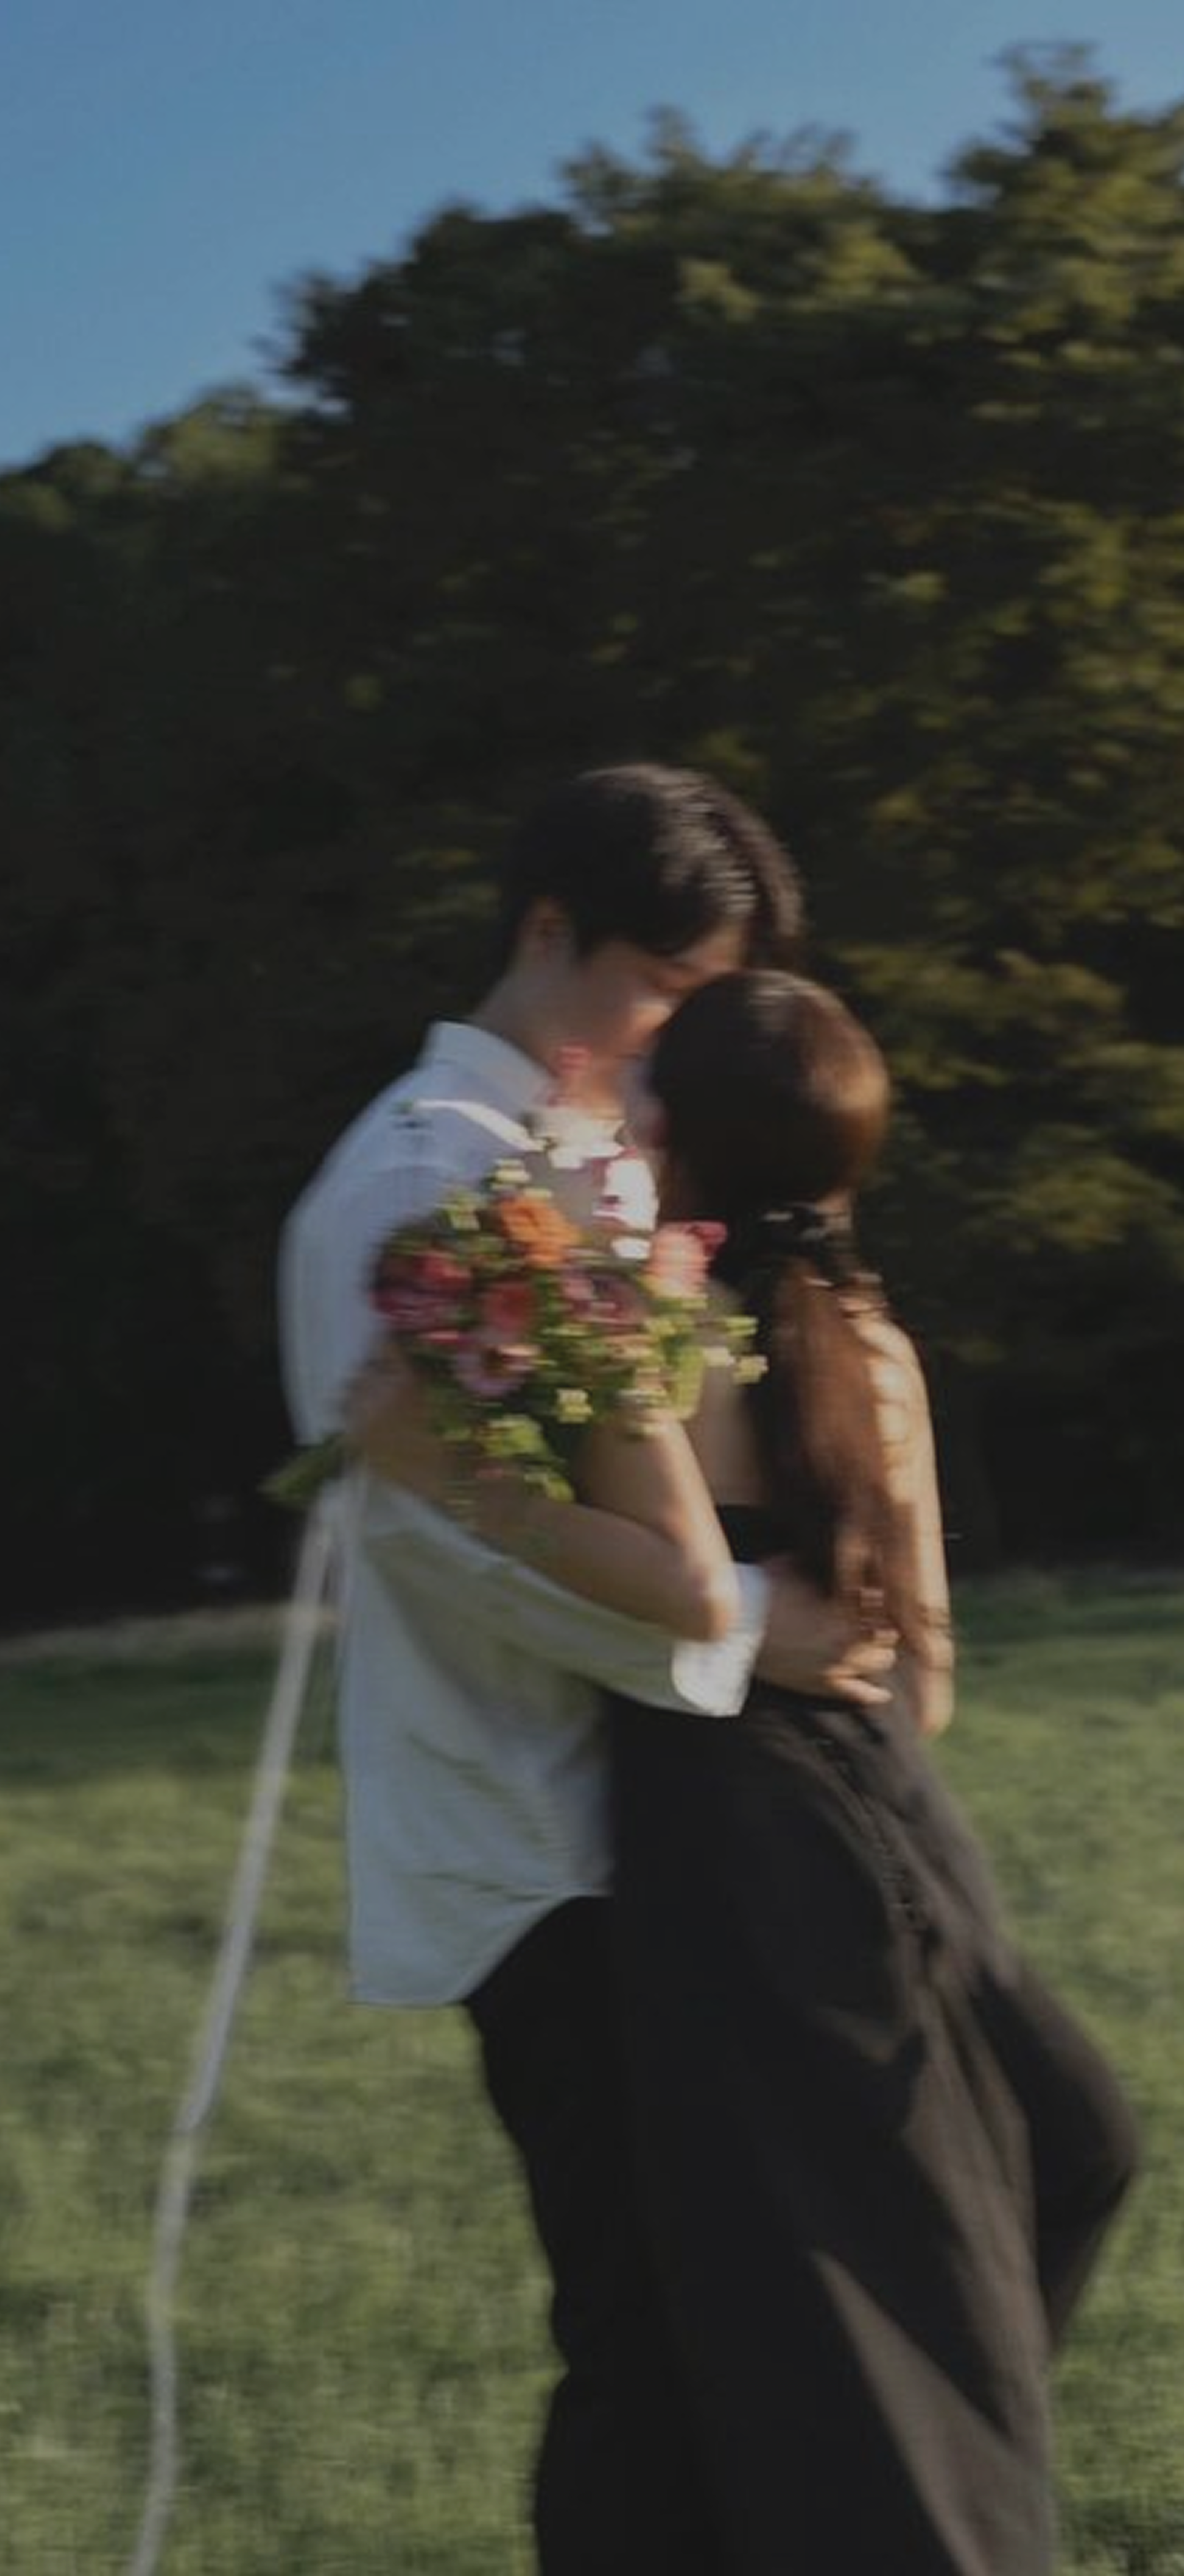
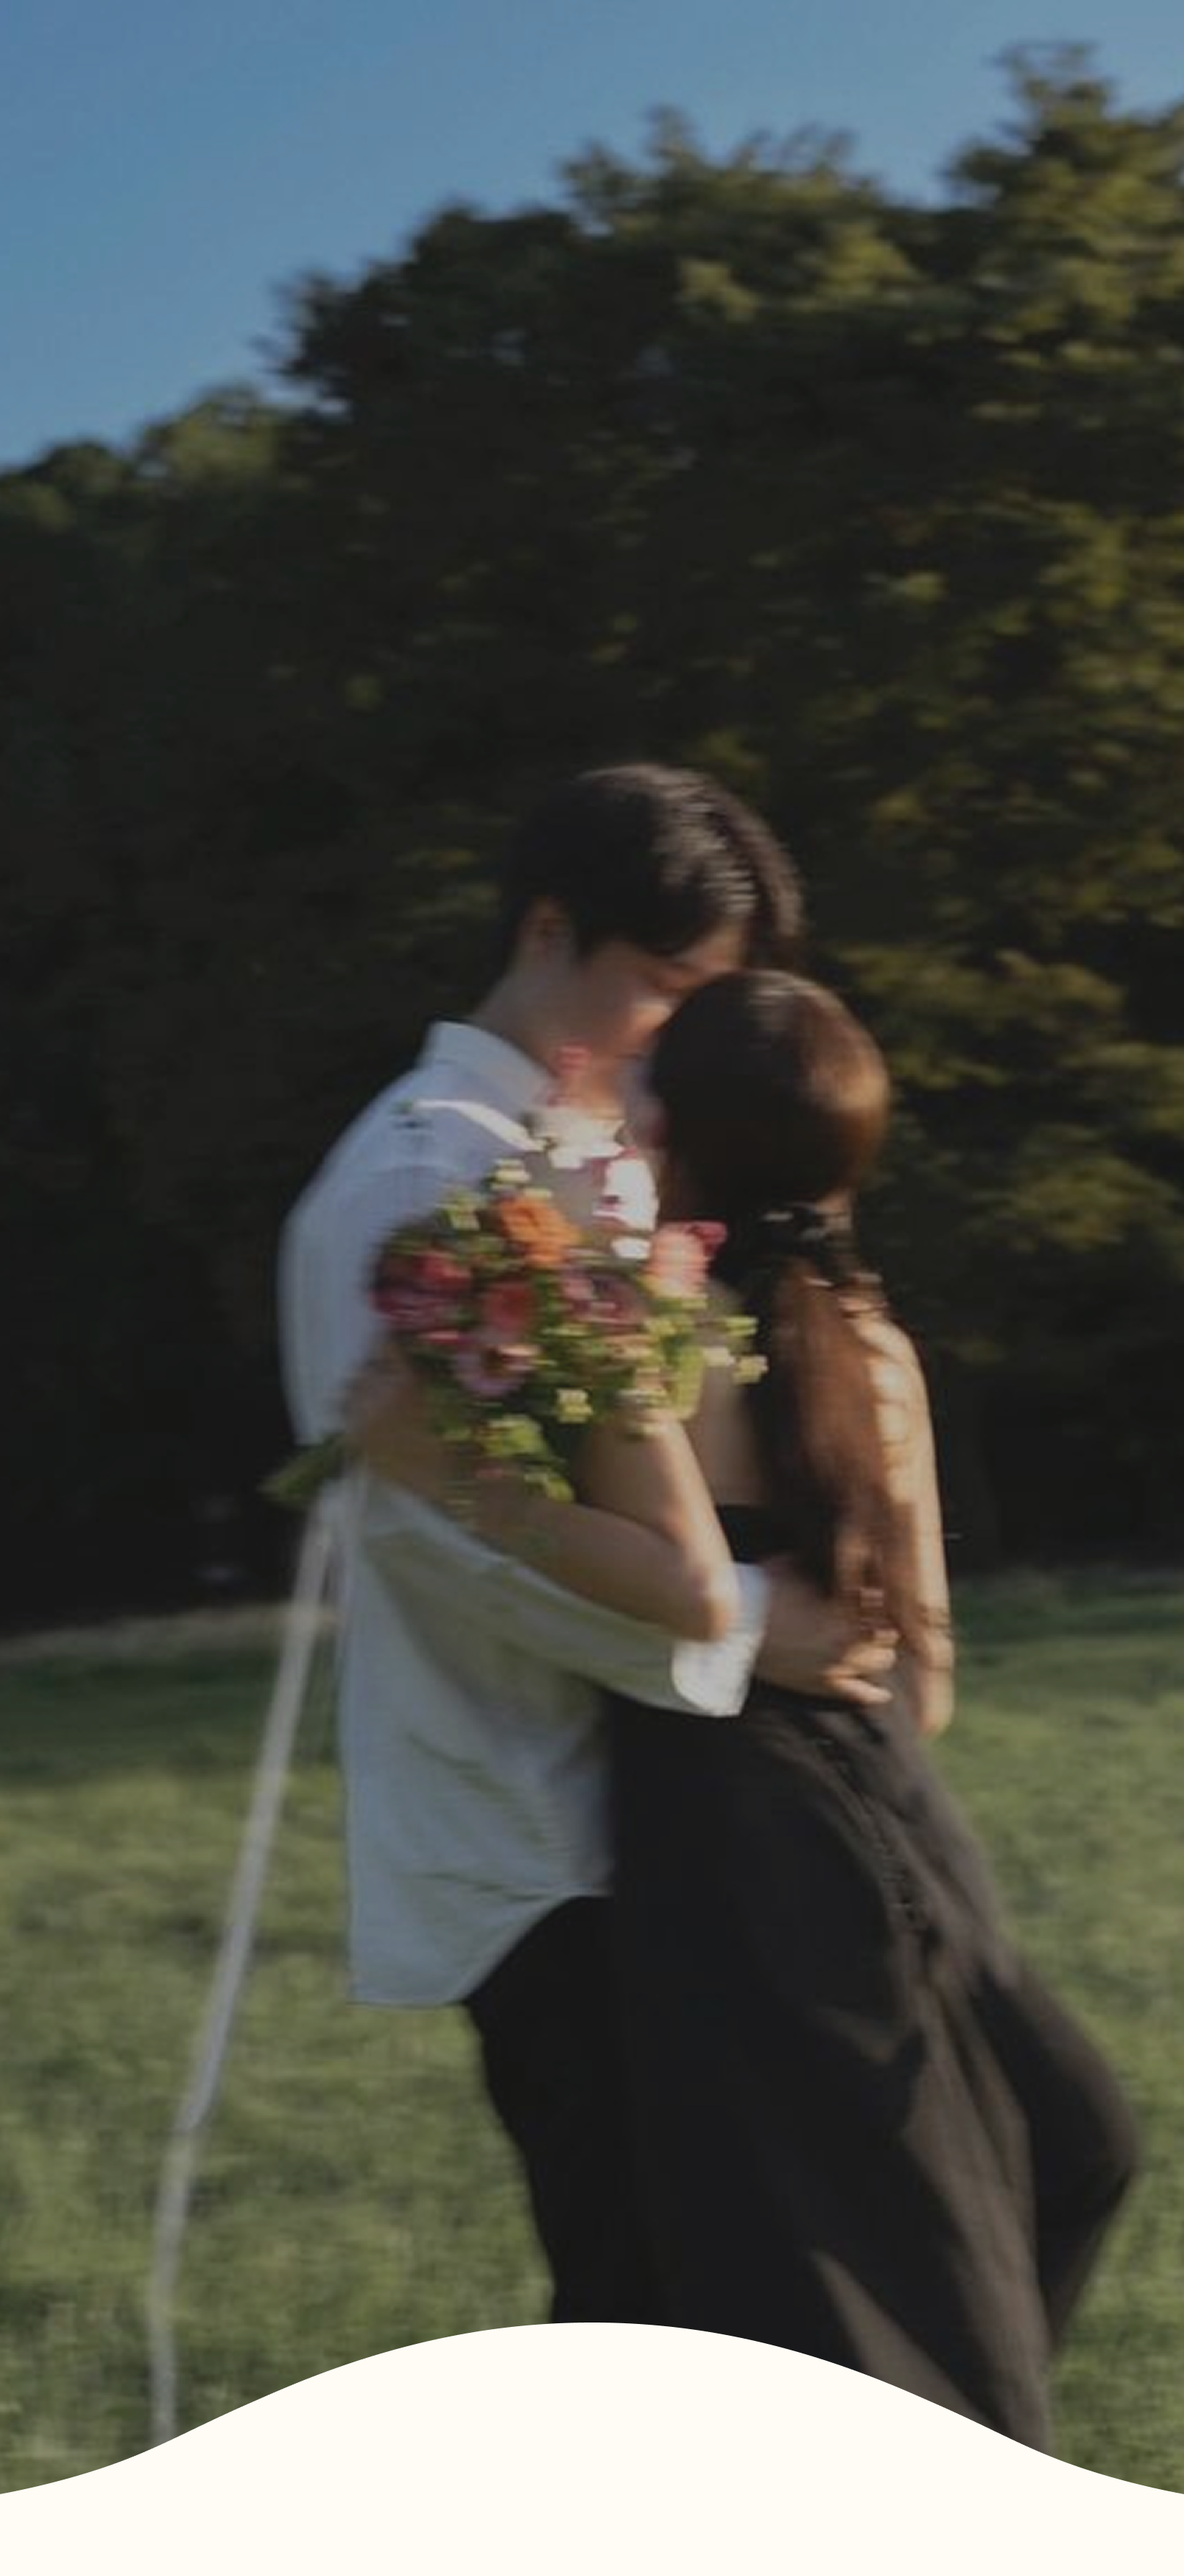
hero scroll edit

Changed region(s): [[0.0, 0.9042, 1.0, 1.0]]

diff --git a/wedding-invite/src/styles/global.css b/wedding-invite/src/styles/global.css
@@ -92,6 +92,7 @@ section {
 }
 
 section h2 {
+    font-size: 12px;
     font-weight: 500;
     color: #B0B0B0;
     margin-bottom: 40px;
@@ -102,7 +103,7 @@ section h2 {
 .hero {
     height: 100vh;
     background-size: cover;
-    background-position: center;
+    background-position: center bottom;
     background-repeat: no-repeat;
     display: flex;
     flex-direction: column;
@@ -121,7 +122,7 @@ section h2 {
 
 .hero-scroll {
     width: 100%;
-    height: 120px;
+    height: 100px;
     background-size: 100% 100%;
     background-position: center bottom;
     background-repeat: no-repeat;
@@ -176,7 +177,7 @@ section h2 {
 
 .invitation .line {
     width: 10vw;
-    height: 0.2px;
+    height: 0.5px;
     background-color: #d6d6d6;
     margin: 80px 0;
 }
@@ -248,10 +249,12 @@ section h2 {
 
 .heart {
     position: absolute;
-    top: -2px;
-    font-size: 10px;
-    line-height: 1;
-    color: #EF8700;
+    top: -7px;
+}
+
+.heart img {
+    width: 12px;
+    height: 12px;
 }
 
 .countdown_wrap {
@@ -280,12 +283,12 @@ section h2 {
 }
 
 .num {
-    font-size: 24px;
+    font-size: 22px;
     color: #444444;
 }
 
 .colon {
-    font-size: 24px;
+    font-size: 22px;
     margin-bottom: 2px;
     font-weight: 300;
     color: #B0B0B0;

diff --git a/wedding-invite/src/components/Calendar.jsx b/wedding-invite/src/components/Calendar.jsx
@@ -1,3 +1,5 @@
+import heartIcon from "../assets/icons/heart.png"
+
 export default function Calendar() {
     const days = ['S','M','T','W','T','F','S'];
     const dates = [
@@ -22,7 +24,7 @@ export default function Calendar() {
             <div key={i} className={`date ${d===28 ? 'wedding' : ''}`}>
                 {d && (
                 <>
-                    {d===28 && <div className="heart">❤</div>}
+                    {d===28 && <div className="heart"><img src={heartIcon} alt="heart" /></div>}
                     {d}
                 </>
                 )}

diff --git a/wedding-invite/src/components/Hero.jsx b/wedding-invite/src/components/Hero.jsx
@@ -1,5 +1,4 @@
 import heroImage from "../assets/images/hero.png"
-import heroScrollBg from "../assets/images/hero-scroll-bg.png"
 import arrowDown from "../assets/icons/arrow-down.png"
 
 function Hero() {
@@ -10,7 +9,7 @@ function Hero() {
                 <br />
                 Married
             </h1>
-            <div className="hero-scroll" style={{ backgroundImage: `url(${heroScrollBg})` }}>
+            <div className="hero-scroll">
                 <img src={arrowDown} alt="scroll" />
                 <p>SCROLL</p>
             </div>
